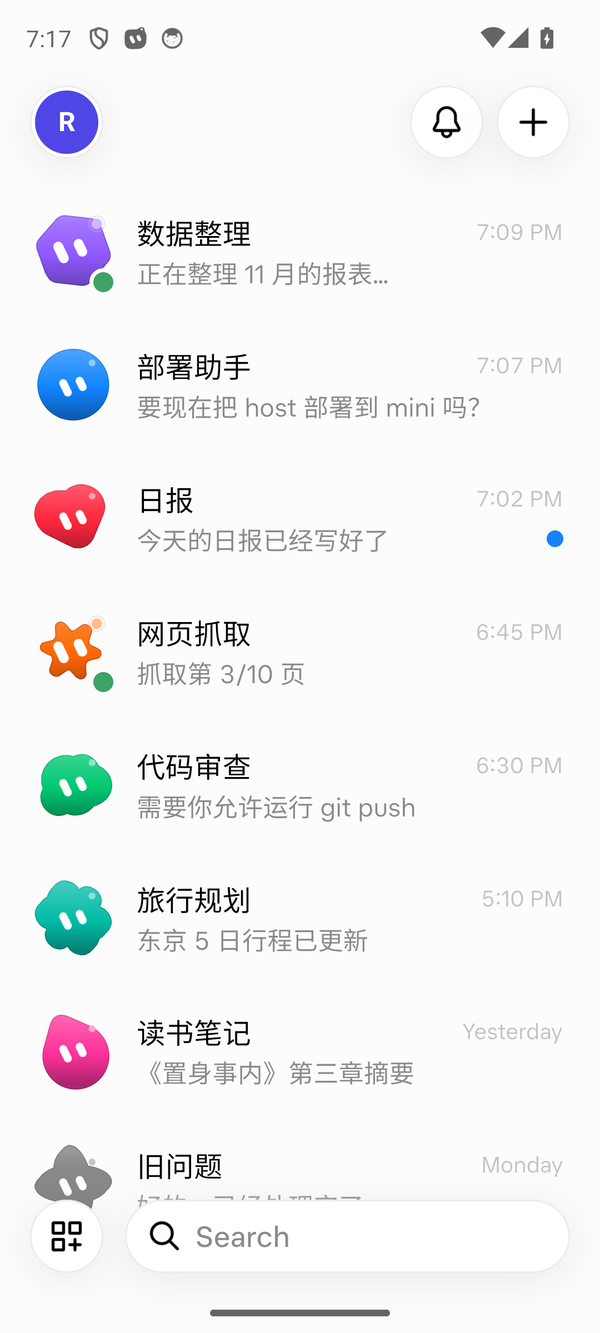
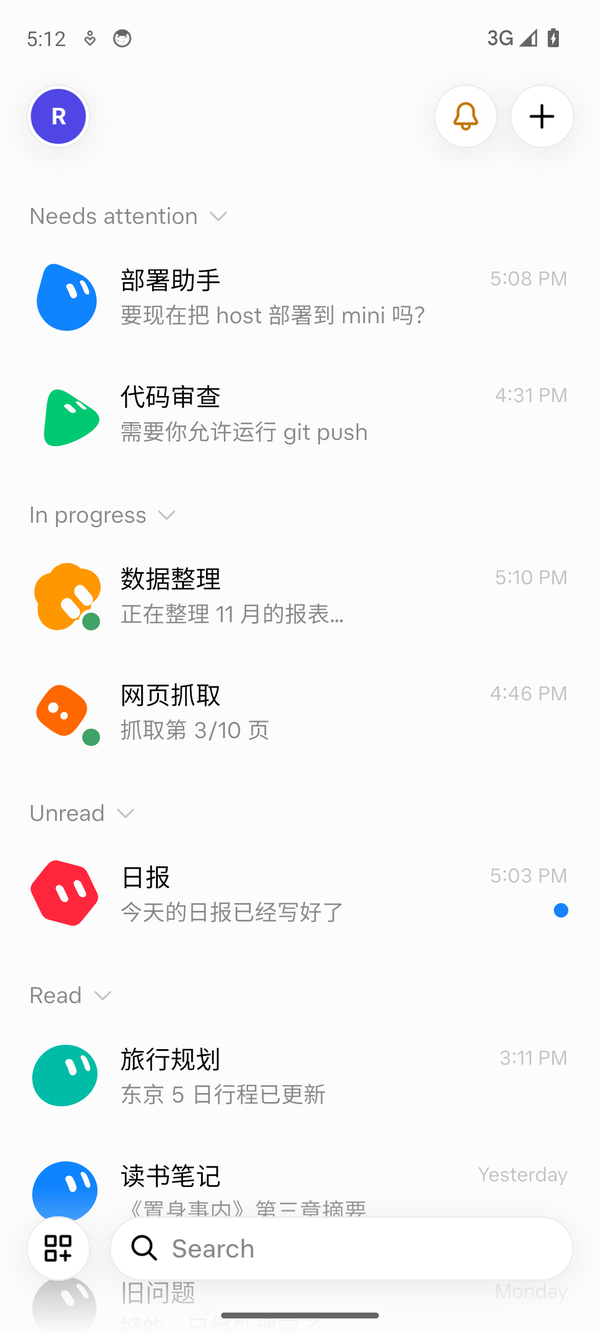
docs: show native Android screenshots in the READMEs
Rework the screenshot section so it leads with the native Android
client, followed by the desktop layout and the admin console.

- Android: 12 native screenshots in a 3x4 grid. Five come from earlier
  device captures (grouped chat list, question card, approval card, Bot
  details, share sheet). Seven are new captures from the current build
  against the demo Host (image generation, usage, model settings,
  settings, pairing, connection and diagnostics, about), and they show
  the new logo.
- Desktop: the chat list and live desktop view, now in two columns.
  The text notes that the macOS and Windows clients share this
  interface.
- Remove rokbot-web-image-generation.png. The Android screenshot now
  covers image generation.
- Correct the chat-list grouping text: desktop and web have three
  groups; Android adds an In progress group. Use the client's English
  label, Needs attention.

diff --git a/README.en.md b/README.en.md
@@ -49,7 +49,7 @@ Conversations, files, settings and API keys stay on the Host's data volumes. You
 ### Continuity across devices and notifications
 
 - Conversations and settings live on the Host, and every client connects to the same Host. You can start a task on your computer and follow up on your phone or in the browser.
-- The chat list can be sorted by last message and split into three groups: Pending, Unread and Read.
+- The chat list can be sorted by last message and grouped: Needs attention, Unread and Read on desktop and web, with an additional In progress group on Android.
 - Notification channels:
   - iOS can use APNs or Bark.
   - The Android client keeps its own connection to the Host and can also use ntfy, UnifiedPush, FCM or a webhook.
@@ -118,30 +118,48 @@ Conversations, files, settings and API keys stay on the Host's data volumes. You
 
 ## Screenshots
 
-These screenshots were taken from a RokBot Host and clients loaded with demo data. They contain no real accounts.
+These screenshots were taken from a RokBot Host and native clients loaded with demo data. They contain no real accounts.
 
-<p align="center">
-  <img src="docs/images/rokbot-web-desktop.png" width="860" alt="Web client: chats grouped into Pending, Unread and Read, with an operations Bot's check report" />
-  <br /><sub>Web client (desktop layout) with chats grouped by last message</sub>
-</p>
+### Android client
 
-| Generated image returned to the chat | The Bot's computer: live desktop view |
+<table>
+  <tr>
+    <td align="center"><img src="docs/images/rokbot-android-bot-list.png" width="190" alt="Android chat list grouped into Needs attention, In progress, Unread and Read" /><br /><sub>Grouped chat list</sub></td>
+    <td align="center"><img src="docs/images/rokbot-android-question-card.png" width="190" alt="Android conversation with a multiple-choice question card" /><br /><sub>Question card</sub></td>
+    <td align="center"><img src="docs/images/rokbot-android-approval-card.png" width="190" alt="Android conversation with an approval card awaiting confirmation" /><br /><sub>Approval card</sub></td>
+    <td align="center"><img src="docs/images/rokbot-android-image-generation.png" width="190" alt="A 16:9 image generated by a design Bot returned to the chat" /><br /><sub>Generated image</sub></td>
+  </tr>
+  <tr>
+    <td align="center"><img src="docs/images/rokbot-android-bot-details.png" width="190" alt="Bot details with routines, library, computer and instructions" /><br /><sub>Bot details</sub></td>
+    <td align="center"><img src="docs/images/rokbot-android-usage.png" width="190" alt="Usage page with today's tokens, requests, cache hit rate and hourly usage" /><br /><sub>Usage</sub></td>
+    <td align="center"><img src="docs/images/rokbot-android-models.png" width="190" alt="Model settings with model providers and profiles" /><br /><sub>Model settings</sub></td>
+    <td align="center"><img src="docs/images/rokbot-android-settings.png" width="190" alt="Settings with usage, time zone, Bot computer and notifications" /><br /><sub>Settings</sub></td>
+  </tr>
+  <tr>
+    <td align="center"><img src="docs/images/rokbot-android-pairing.png" width="190" alt="Connection screen with Host address, LAN scan and six-character pairing code" /><br /><sub>Connect to a Host</sub></td>
+    <td align="center"><img src="docs/images/rokbot-android-connection.png" width="190" alt="Connection and diagnostics with the current connection, history and avatar style" /><br /><sub>Connection and diagnostics</sub></td>
+    <td align="center"><img src="docs/images/rokbot-android-share.png" width="190" alt="Sending shared content to a chosen Bot from the system share sheet" /><br /><sub>System share sheet</sub></td>
+    <td align="center"><img src="docs/images/rokbot-android-about.png" width="190" alt="App version and update status at the bottom of Settings" /><br /><sub>About and updates</sub></td>
+  </tr>
+</table>
+
+### Desktop
+
+The desktop clients (macOS and Windows) share their interface with the web client. Both screenshots below use the desktop layout.
+
+| Chat list and conversation | The Bot's computer: live desktop view |
 | --- | --- |
-| <img src="docs/images/rokbot-web-image-generation.png" width="420" alt="A 16:9 image generated by a design Bot returned as an attachment" /> | <img src="docs/images/rokbot-client-live-vnc.png" width="420" alt="Live view of the Bot's computer beside the conversation" /> |
+| <img src="docs/images/rokbot-web-desktop.png" width="420" alt="Desktop layout: chats grouped into Needs attention, Unread and Read, with an operations Bot's check report" /> | <img src="docs/images/rokbot-client-live-vnc.png" width="420" alt="Live view of the Bot's computer beside the conversation" /> |
 
-| Admin console: overview and usage | Admin console: chat models and routing |
+### Admin console
+
+| Overview and usage | Chat models and routing |
 | --- | --- |
 | <img src="docs/images/rokbot-admin-overview.png" width="420" alt="Admin overview with today's hourly token usage by model" /> | <img src="docs/images/rokbot-admin-models.png" width="420" alt="Chat model page with model services, profiles, the default route and a fallback" /> |
-
-| Admin console: images and video | Admin console: voice |
-| --- | --- |
+| **Images and video** | **Voice** |
 | <img src="docs/images/rokbot-admin-media.png" width="420" alt="Images and video page with default models, providers and models" /> | <img src="docs/images/rokbot-admin-voice.png" width="420" alt="Voice page with speech recognition and voice call settings" /> |
 
-| Android: Bot list | Android: question card | Android: approval card | Android: Bot details |
-| --- | --- | --- | --- |
-| <img src="docs/images/rokbot-android-bot-list.png" width="190" alt="Android Bot list" /> | <img src="docs/images/rokbot-android-conversation.png" width="190" alt="Android conversation with a multiple-choice question card" /> | <img src="docs/images/rokbot-android-approval.png" width="190" alt="Android conversation with an approval card awaiting confirmation" /> | <img src="docs/images/rokbot-android-bot-details.png" width="190" alt="Android Bot details with routines, library and the Bot's computer" /> |
-
-The admin and web client screenshots use the Chinese interface; both also offer English.
+The Android screenshots use the English interface; the desktop and admin screenshots use the Chinese interface. Android, desktop, web and the admin console all offer both languages.
 
 ## Supported Platforms
 
